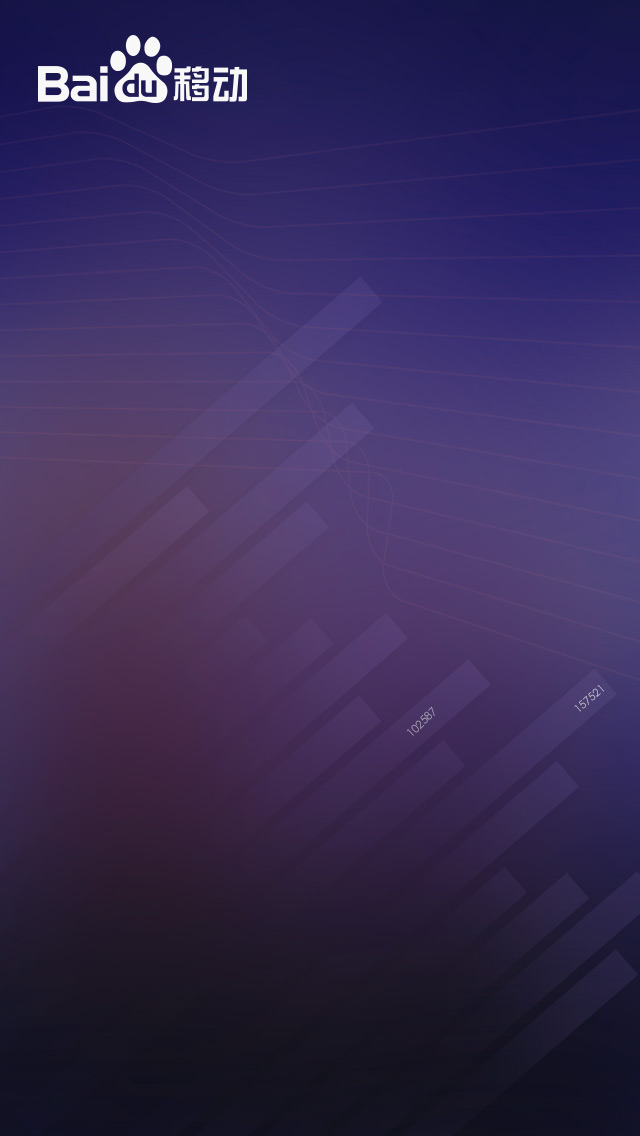
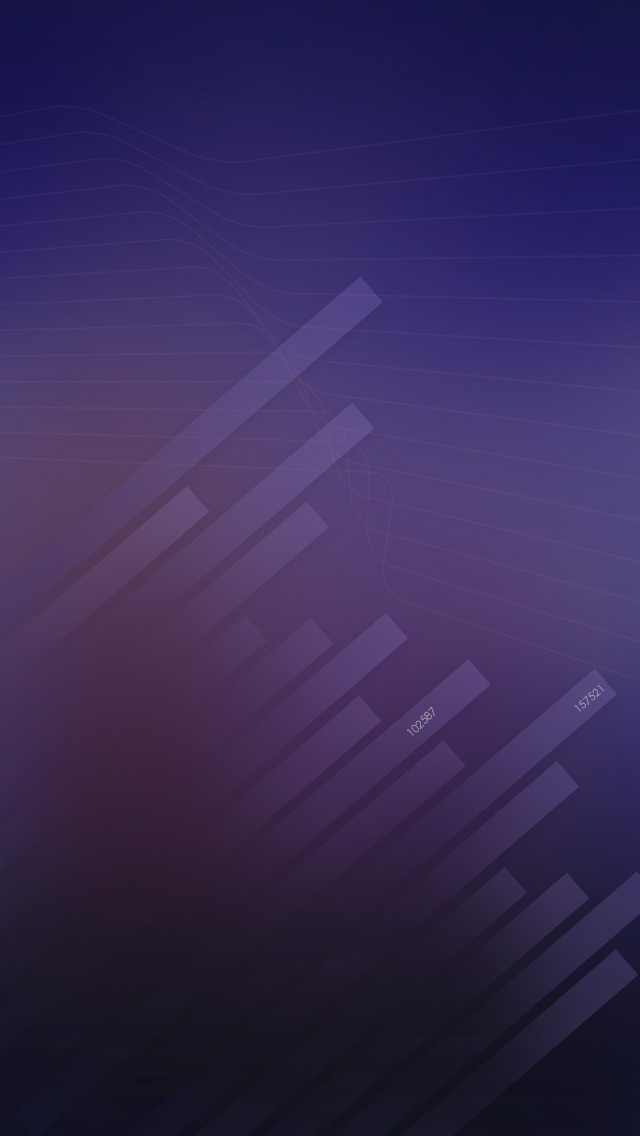
added loading

Changed region(s): [[0.0625, 0.0308, 0.4062, 0.0924]]

diff --git a/index.html b/index.html
@@ -13,9 +13,10 @@
 </head>
 <body>
 <div id="cover" class="report-cover">
-    <img src="img/bg.png" alt="" class='l1' width='261' id='img1'>
+    <img src="img/bg.png" alt="" class='l1' width='360' id='img1'>
     <img src="img/bg02.png" alt="" class='l2' width='114' id='img2'>
     <img src="img/covertitle.png" alt="" class='tl2' width='205' id='img3'>
+    <img src="img/MBU1_LOGO.png" width="105" id='img4'>
     <div class="cover-guide">
       <div class="arrow-up"></div>
         <span style='color:white'>滑动查看</span>

diff --git a/css/styles.css b/css/styles.css
@@ -451,7 +451,12 @@ body {
   margin-top: -110px;
   -webkit-transform:rotateY(-25deg);
 }
-
+#img4{
+  left: 50%;
+  margin-left: -53px;
+  bottom: 70px;
+  position: absolute;
+}
 .page-num{
   background-image: url(../img/pics1.png);
   background-repeat: no-repeat;
